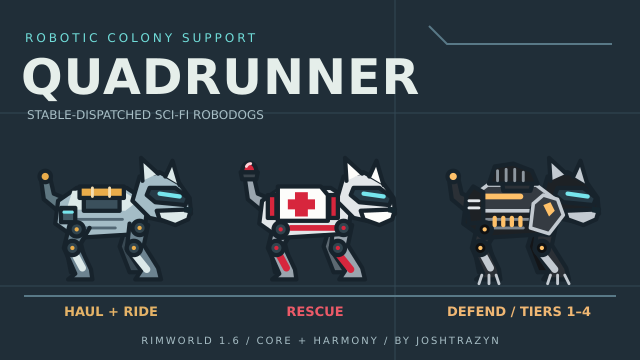
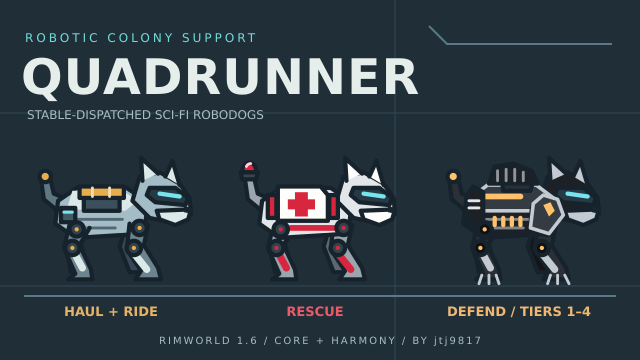
Wrap up personal mod and set jtj9817 authorship

Changed region(s): [[0.2188, 0.9167, 0.7812, 0.9778]]

diff --git a/README.md b/README.md
@@ -1,12 +1,16 @@
 # Quadrunner
 
-A RimWorld 1.6 mod (Core only, requires Harmony): robot dogs dispatched from a stable haul, clean, supply construction, carry riders, rescue the downed (Medirunner) and defend the colony (Combatdogs, tiers 1–4). They charge at conduits or their stable, power down instead of dying when empty, and are carried home.
+Robot dogs for RimWorld: **Quadrunners** haul, clean, supply construction and carry riders; **Medirunners** rescue the downed; **Combatdogs** defend the colony across four upgrade tiers.
 
-Core + Harmony release for RimWorld **1.6**. No DLC is required; DLC-enabled configurations have not been verified. Progress and exact verification runs are recorded in [TODO.md](TODO.md) and [docs/test-runs.md](docs/test-runs.md).
+**Author:** [jtj9817](https://github.com/jtj9817) · **Game:** RimWorld 1.6 · **Requirements:** Core + [Harmony](https://steamcommunity.com/sharedfiles/filedetails/?id=2009463077)
 
-The local release is `dist/Quadrunner`, build `63f0858.20261020T194142Z`, including the 3,500-cell battery range, Hearthline lore/tooltips and the live in-game Scenario runner. The actual package passed automated **Run all 39/39 with zero new errors** on 2026-10-20. Separately, its source-equivalent development build passed live **Run all 38/38** without replacing the Game, map or process; both native picker paths were verified too.
+![Quadrunner — haul, ride, rescue and defend](About/Preview.png)
 
-The original T9 release also passed an independent load, 600 ticks, save/reload and another 600 ticks **without the Quadrunner assembly**. See [the run log](docs/test-runs.md) for these separate builds and checks.
+Complete for personal use, including the post-T9 lore, liveries, walking, rescue and combat animations, and weapon demonstrations. This is a private source backup and personal mod, not a community project or Workshop release. Issues, pull requests, discussions, projects and the wiki are disabled; no contributions or public support are solicited.
+
+No DLC is required. DLC-enabled configurations and arbitrary mod combinations have not been verified. The saved-game package ID remains `josh9817.quadrunner`; the author name does not change that identity.
+
+Verification history, including packaged scenario runs and an independent save-removal check without the mod assembly, is recorded in [docs/test-runs.md](docs/test-runs.md). Historical results apply to the builds named there, not every later build.
 
 ## Hearthline Robotics
 
@@ -20,7 +24,7 @@ In **Overview**, hover the robodog-count heading for the stable's lore, a dog's 
 
 ## Install and play
 
-1. Put the packaged `Quadrunner` folder in RimWorld's `Mods/` directory. Enable **Harmony**, **Core**, then **Quadrunner**, and restart the game.
+1. Put the packaged `Quadrunner` folder from `dist/Quadrunner` in RimWorld's `Mods/` directory. Enable **Harmony**, **Core**, then **Quadrunner**, and restart the game. A source checkout or GitHub source ZIP is not a ready-to-play package: compiled assemblies and `dist/` are deliberately excluded from Git.
 2. Research **Microelectronics**, then build a **Quadrunner stable** from **Misc** and connect its 200 W power supply. Its 15 slots include dogs currently working away from home.
 3. Add **Assemble Quadrunner**, **Assemble Medirunner** or **Assemble Combatdog** bills at the stable. Colonists do the work under Crafting. The **Overview** tab shows each dog's battery, health and current activity.
 
@@ -43,6 +47,10 @@ In **Overview**, hover the robodog-count heading for the stable's lore, a dog's 
 If preparation reports failure, **keep Quadrunner enabled and reload the backup**. No successful clean export is claimed. Bring any off-map robodog cargo without a surviving caravan carrier onto a map before retrying.
 
 ## Development
+
+The repository is [jtj9817/Quadrunner-mod-rw](https://github.com/jtj9817/Quadrunner-mod-rw). Source, original artwork and exported textures are tracked; compiled assemblies, packages, decompiled game code, logs and private test profiles are not. No open-source license is granted.
+
+For a local build, install the .NET SDK and Python 3, with RimWorld 1.6 and Harmony available at the paths configured by `tools/env.sh`. `tools/build.sh` lints, builds and installs the assembly into `1.6/Assemblies`; `tools/package.sh` requires a clean committed tree and produces the installable `dist/Quadrunner` folder. Its `BUILD` file identifies the packaged build. The private-game test tools additionally require Steam, Xvfb, xdotool and ImageMagick; texture export requires Inkscape.
 
 Original SVG sources live in `Art/`; `tools/export-textures.sh` exports the committed PNGs. Preview sources before integration and inspect actual private-game screenshots afterwards.
 

diff --git a/TODO.md b/TODO.md
@@ -18,6 +18,7 @@ Tracks [Plan 0001](docs/plans/0001-quadrunner.md) and the post-release [Hearthli
 
 ## Current state
 
+- **Personal wrap-up** (2026-10-20): all planned work complete; no next development target. Private source repository: [jtj9817/Quadrunner-mod-rw](https://github.com/jtj9817/Quadrunner-mod-rw). Wiki, issues, pull requests, discussions, projects and Actions disabled. Author is `jtj9817` in the mod, assembly metadata and preview; saved-game package ID stays `josh9817.quadrunner`. README now documents personal-use scope, installation, build requirements and safe removal. Gameplay is unchanged.
 - **Weapon demos**, user-requested (2026-10-20): scenarios **Tier 2/3/4 weapon demo** (after Combat animation; also in Debug actions → Scenario…) upgrade a Combatdog from Tier 1 at its stable and fight unarmed raiders at normal speed, beside the dog on a bare field, with a screenshot of a burst per gun (`.devlog/screens/demo-t*.png`): Tier 2 assault rifle, then the LMG picked for its slot; Tier 3 rifle at range, flamethrower up close; Tier 4 minigun on a group of three. 3/3 PASS, 0 new errors. Shipped in `dist/Quadrunner`, build `3b2d6e7.20261020T224226Z` (with the liveries and animations): packaged demos and Rescue animation 4/4 PASS, 0 new errors.
 - **Liveries and action animations**, user-requested (2026-10-20): Combatdog Tiers 1–2 wear green woodland camo, Tiers 3–4 a black chassis with silver-edged plates; the Medirunner is white with red crosses and a tail siren that flashes red on a rescue run. The Medirunner dips (ducks, head-on) and flips a picked-up pawn over its head onto its back, where the pawn lies along it; Combatdogs pounce nose-down at each bite and crouch, brace and kick back with each shot (Harmony patch 6: carried pawn's body angle). Run all 41/42 PASS, 0 new errors; the failing Rescue animation (head dip invisible head-on) then fixed and 1/1 PASS; screenshots `art-rescue-*`, `art-combat-*` inspected. Packaged: see Weapon demos.
 - **Walk animation**, user-requested (2026-10-20): the dogs no longer glide as one static image. Each sprite is split into body and four legs (`id="part-…"` in `Art/`); `PawnRenderNodeWorker_Gait` swings the legs about the hips in profile (diagonal pairs, ±22°) and lifts them in turn head-on, driven by distance walked, so the stride matches speed, updates every frame and stops with the dog; a ridden dog walks with its rider. A never-drawn `Whole` node keeps the whole sprite as the body graphic for Core's icons. `Walk animation` scenario 1/1 PASS, 0 new errors. Actual package `efbacb6.20261020T204522Z`: Run all 39/40 PASS, 0 new errors; the one failure, Ping chain's known frame race, PASS on rerun.
@@ -31,7 +32,7 @@ Tracks [Plan 0001](docs/plans/0001-quadrunner.md) and the post-release [Hearthli
 - Drafting: `Drafting.cs` (patches 4 and 5, see the plan's Decisions), the comp's draft toggle, a drafted branch in `QR_Robodog`, `Combat.Answers` skips drafted dogs, `SetBattery` undrafts at 10%.
 - Hand-off at the context limit now replaces the old session in the same tmux pane (user, 2026-10-20).
 - Usage status line: `tools/statusline.py` written; wiring it into settings waits on the user.
-- Last verification: 2026-10-20 19:48, actual package `63f0858.20261020T194142Z`: automated **39/39 PASS**, 0 new errors, 403 s; expected BUILD and actual package modRoot checked. Source-equivalent development build: live **38/38 PASS**, 0 new errors, 198 s, identical Game/map/process and unchanged persistence-save mtime; native picker docking **1/1 PASS** without reload, explicit persistence **1/1 PASS** with exactly one reload. Lint/build 0 warnings/errors. Temporary probe removed, private game/Xvfb stopped, development symlink restored.
+- **Verification history:** the latest gameplay package and focused checks are recorded above under Weapon demos and in [docs/test-runs.md](docs/test-runs.md). The earlier live-runner release passed packaged automated **39/39** and source-equivalent live **38/38**, with both native picker paths verified (2026-10-20 19:48). Those results apply to their recorded builds, not to a claim of a new full-suite run during wrap-up.
 - Baseline: 8 signatures (2026-10-19, Harmony + Core).
 - User's saves backed up: `~/RimWorldBackups/20261019-171753.tar.gz` (44 saves).
 - `tools/selftest.sh`: **19 cases OK** (2026-10-20 08:52), including packaged-source validation, dev-link restoration, observer cleanup, failed removal load and new-error rejection.

diff --git a/docs/plans/0001-quadrunner.md b/docs/plans/0001-quadrunner.md
@@ -26,7 +26,7 @@ The design doc's tables (overview, costs, edge cases, Harmony list) are decision
 | Riding | "Rider drives, dog carries": a stat part on move speed, a "being ridden" job, a dismount comp, a Harmony draw-offset patch. Riders dismount when drafted. Auto-mount for long trips is phase 2, outside this plan (design) |
 | Combatdogs | Deploy on ping, raid or order; 200% move speed while deployed; nearest-first target queue per stable; capture downed targets; patrol the stable's waypoints; retreat at 10% with a yellow siren; draftable. Tiers are separate models; upgrades keep the name and install the tier's gun (design) |
 | Harmony budget | About six patches, listed in the design (draw offset, auto-mount, worker-skill fixes, raider carry-off, Tier 3 second mount, drafting). Each new patch is justified here when added (design) |
-| Identity | packageId `josh9817.quadrunner`, author Joshtrazyn, C# namespace `Quadrunner`, defNames `QR_`, log prefix `[Quadrunner]` (user confirmed, 2026-10-19) |
+| Identity | packageId `josh9817.quadrunner`, author `jtj9817` (personal wrap-up, user, 2026-10-20; supersedes Joshtrazyn), C# namespace `Quadrunner`, defNames `QR_`, log prefix `[Quadrunner]`. Package ID stays unchanged for existing saves |
 | Context hand-off | At 250k tokens of context a session stops, writes a hand-off doc in `docs/handoff/` and launches a new interactive Claude Code instance on it; enforced by project-only hooks (`tools/context-guard.py`, `tools/handoff.sh`) (user, 2026-10-19) |
 | Testing | **Fully automated, driven by the agent**: develop → test → analyze the log and write notes → develop. The design's manual checklist phase is dropped (user, 2026-10-19) |
 | Test instance | A separate game profile (`-savedatafolder` under `.devlog/`, Core + Harmony + Quadrunner only, Dev mode on), started with `-quicktest` on a private Xvfb display, driven by a launch argument that runs the scenarios and quits. Never the user's profile, saves or window (agent, 2026-10-19, from the user's "never touch my game") |
@@ -94,6 +94,7 @@ The design doc's tables (overview, costs, edge cases, Harmony list) are decision
 | Gun rendering | A native `PawnRenderTreeDef` based on Core's Misc tree replaces only its virtual carried-node worker. Built-in guns draw on the back with XML per-facing offsets while Core handles aim/material/recoil; ordinary cargo retains Core's draw position/layers. No additional Harmony patch (agent, actual art and weapon scenarios 2026-10-20 07:13/07:19) |
 | Liveries | Combatdog Tiers 1–2 in green woodland camo (SVG pattern fills, olive plates in a lighter camo), Tiers 3–4 a black chassis with silver-edged plates; the user offered either, so both mark the tier step. The Medirunner is white with red crosses and stripes and a red siren dome on its tail, which flashes red (`TailSiren`, XML offsets) on a rescue run (user's request, agent's split, 2026-10-20) |
 | Action animations | The render tree's root (`PawnRenderNodeProperties_Pose`, tunables in XML) moves the whole dog from vanilla state each frame: a pounce at each melee strike, a braced crouch with a recoil kick per shot, a head dip and a flip of a picked-up pawn over the head onto the back. Not saved: only the pickup tick is kept, transiently, on the comp (user's request, 2026-10-20) |
+| Personal wrap-up | Completed mod for personal use. Private GitHub repository `jtj9817/Quadrunner-mod-rw`, with wiki, issues, pull requests, discussions and projects disabled; no public collaboration or Workshop release (user, 2026-10-20) |
 | Harmony patch 6 | Postfix on `PawnRenderer.BodyAngle`: a pawn carried by a robodog lies along its back and turns over during the flip onto it. Vanilla fixes a carried pawn's angle for a humanlike carrier; its only hook (`IThingHolderWithDrawnPawn` on the carrier) would need a `Pawn` subclass for every dog, changing the saved class of existing dogs (agent, 2026-10-20) |
 
 ## Targets
